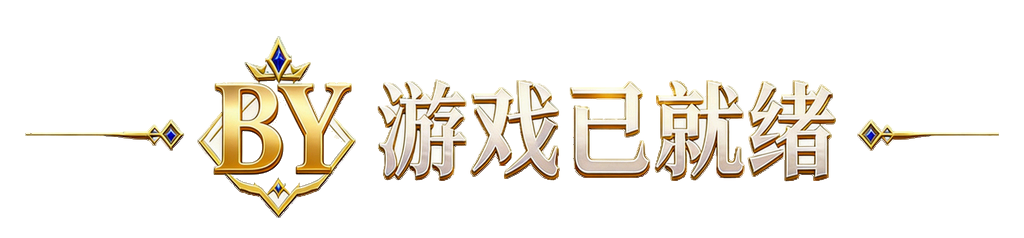
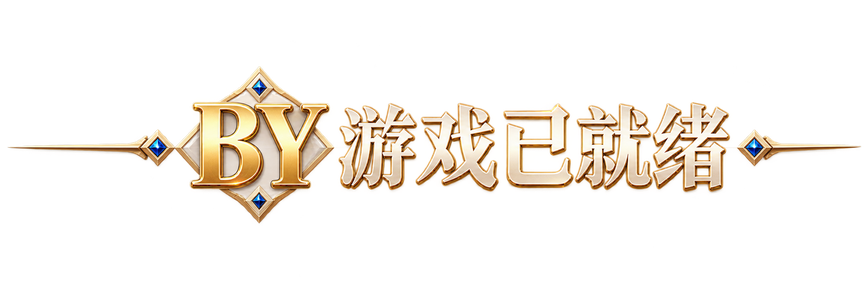
替换 room_ready_art 为金色浮雕字新版，并同步节点尺寸
- room_ready_art.png 换新素材：1024×238 → 868×290，136,566 → 144,450 B
  .meta 的 width/height/rawWidth/rawHeight 同步更新，UUID 与 trimType 不变
- drh8.fire：房间已就绪美术字节点 440×102 → 434×145（比例 2.993 与新图一致），位置微调；
  若干 Label 的 _spacingX 0 → 2
- 更新项目记忆

Changed region(s): [[0.0, 0.1471, 0.9954, 0.9118]]

diff --git a/.workbuddy/memory/2026-09-18.md b/.workbuddy/memory/2026-09-18.md
@@ -1086,5 +1086,17 @@ git checkout HEAD -- assets/resources/other/drh/room_ready_art.png
 `room_ready_art` 走完「RGB 修补 → 重新生成硬抠 → 实心木牌 → 同色系横幅」**四轮后主人直接撤销，四轮全废**。
 根因：一开始没确认「这个元素到底要不要动」——它只是一行提示文字，主人可能本来就没打算大改。
 
+## 提交并推送（23:50）
+
+`005268e` 游戏内按钮/图标重做 + zuotype 牌背替换 → `1d6b7c3..005268e main -> main`，工作区已干净。
+
+本次提交内容（27 个文件）：
+- `assets/ImagesLuck/游戏内/` 13 张（12 张按钮/图标宝石版 + 白边修复、分牌背景、确认分牌）
+- `assets/resources/zuotype/` 6 张牌背（搓背0-2 / 牌背0-2）
+- `assets/Scenes/drh8.fire`：`确定扯牌` 节点 147→148 宽、`_sizeMode` 1→2、Label fontSize 30→35（**主人自己在 Creator 里改的**）
+- 5 份 `design-previews/待确认/` 预览 + 2 个 memory 文件
+- `.meta` 全部干净；提交前删掉了项目根下 seedream 的临时产物 `outputs/`
+
+
 
 
